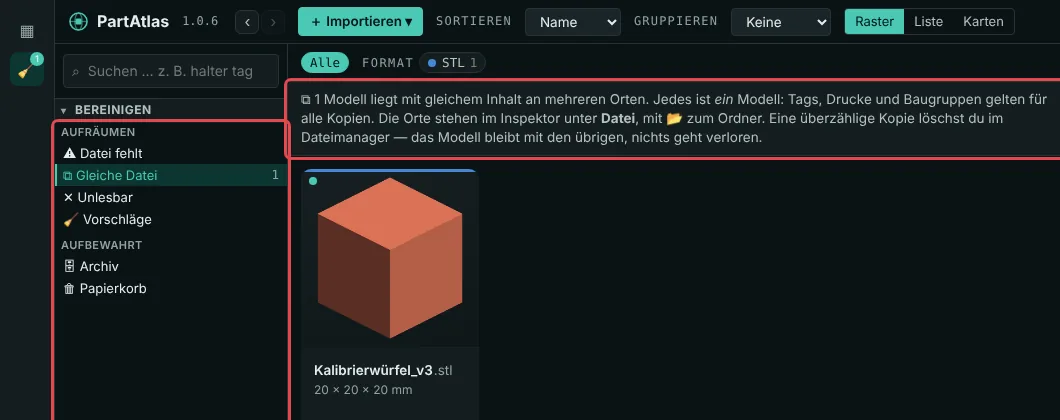
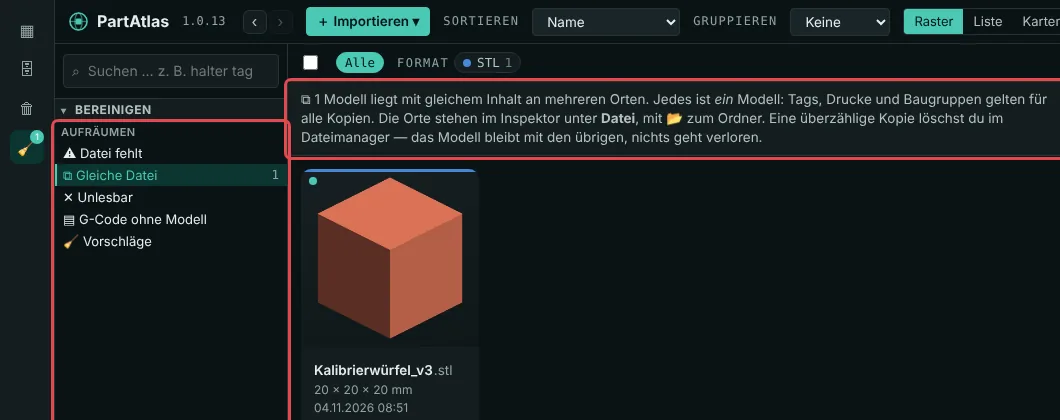
Handbuch: Archiv und Papierkorb in der Leiste, Ziehen und Ablegen, G-Code ohne Modell; Bild Bereinigen neu
Claude-Session: https://claude.ai/code/session_01LRBnMHrETZXiKnDhzZxFAi

diff --git a/partatlas/web/handbuch/index.html b/partatlas/web/handbuch/index.html
@@ -234,6 +234,11 @@ figure.bild figcaption { font-size: 13px; color: var(--muted); margin-top: 6px; 
   <p>Sind mehrere gewählt, gilt die Leiste unten für alle: <b>Tag, Material, Sammlung, Baugruppe</b> öffnen ein Fenster mit Suchfeld und dem
   Stand („2 von 5“); ein Klick fügt allen hinzu, das Fenster bleibt offen. <b>Favorit, Entwurf, Gedruckt</b> schalten direkt; <b>Verschieben,
   Archiv, Löschen</b> fragen nach. Ein Rechtsklick auf eine Kachel bietet dasselbe für die Auswahl.</p>
+  <h3>Ziehen und Ablegen</h3>
+  <p>Gewählte Modelle lassen sich dorthin ziehen, wo sie hingehören: auf einen Ordner, eine Sammlung oder Baugruppe, auf 🗑 (Papierkorb),
+  🗄 (Archiv), auf einen Tag in der Seitenleiste, auf ♥ Favoriten oder auf ＋ bei den Sammlungen (neue Sammlung). Aus Papierkorb oder Archiv
+  zurück geht es auf ▦ Bibliothek. Am Zeiger steht, was beim Loslassen geschieht. Danach macht <b>Rückgängig</b> in der Meldung oder
+  <kbd>Strg</kbd>+<kbd>Z</kbd> alles wieder zurück. Ab 25 Modellen fragt der Papierkorb einmal nach.</p>
 </section>
 
 <section id="suche">
@@ -419,17 +424,24 @@ figure.bild figcaption { font-size: 13px; color: var(--muted); margin-top: 6px; 
 
 <section id="bereinigen">
   <h2>Bereinigen und Löschen</h2>
-  <p>Der Besen in der Leiste ganz links zeigt, wo aufzuräumen ist; das Abzeichen zählt fehlende, mehrfach liegende und unlesbare Dateien.
-  Die Seitenleiste ist zweigeteilt: <b>Aufräumen</b> und <b>Aufbewahrt</b>. Jede Ansicht sagt oben, was sie zeigt und was ihre Aktionen tun.</p>
+  <p>Der Besen 🧹 in der Leiste ganz links zeigt, wo aufzuräumen ist; das Abzeichen zählt fehlende, mehrfach liegende und unlesbare Dateien.
+  Ein Klick öffnet die erste Liste, in der etwas zu tun ist. Jede Ansicht sagt oben, was sie zeigt und was ihre Aktionen tun.
+  <a href="#archiv-papierkorb">Archiv und Papierkorb</a> haben eigene Knöpfe in der Leiste.</p>
   <figure class="bild"><img class="hell" src="bilder/bereinigen-hell.webp" alt="Bereinigen › Gleiche Datei: oben die Erklärung, was man sieht und was man tun kann." width="1060" height="420" loading="lazy"><img class="dunkel" src="bilder/bereinigen-dunkel.webp" alt="Bereinigen › Gleiche Datei: oben die Erklärung, was man sieht und was man tun kann." width="1060" height="420" loading="lazy"><figcaption>Bereinigen › Gleiche Datei: oben die Erklärung, was man sieht und was man tun kann.</figcaption></figure>
   <table>
     <tr><th>Ansicht</th><th>Inhalt</th></tr>
     <tr><td>Datei fehlt</td><td>Im Katalog vorhanden, auf der Platte nicht mehr. <b>Entscheiden …</b> öffnet das Fenster vom Ende des Einlesens: <b>Ins Archiv</b> (taucht die Datei wieder auf, kehrt das Modell von selbst zurück), <b>Behalten</b> (bleibt ohne Datei im Katalog) oder <b>Löschen</b> (Papierkorb).</td></tr>
     <tr><td>Gleiche Datei</td><td>Dieselbe Datei mit gleichem Inhalt an mehreren Orten. Es ist ein Modell; im Inspektor unter <b>Datei</b> stehen alle Orte, ein Klick zeigt den Ordner. Eine überzählige Kopie löschst du im Dateimanager — das Modell bleibt mit den übrigen.</td></tr>
     <tr><td>Unlesbar</td><td>Dateien, die partAtlas nicht lesen konnte; den Grund nennt der Inspektor. Im Programm öffnen und am selben Ort neu speichern — beim nächsten Einlesen liest partAtlas sie neu.</td></tr>
+    <tr><td>G-Code ohne Modell</td><td>G-Codes aus deinen Ordnern, die partAtlas beim Einlesen keinem Modell sicher zuordnen konnte — etwa weil zwei Modelle gleich heissen oder das Modell fehlt. Je G-Code steht der Grund; mit einem Klick ordnest du ihn zu oder blendest ihn aus.</td></tr>
     <tr><td>Vorschläge</td><td>Was Platz kostet und vermutlich weg kann, in Gruppen mit Summe: Entwürfe, Kopien gleichen Inhalts, grosse Dateien ohne Verwendung, lange nicht angefasste — je Zeile mit Grund, Grösse, Pfad (📂) und was daran hängt. partAtlas löscht hier nichts; du löschst im Dateimanager oder speicherst die Pfade als CSV. „Behalten“ heisst: nicht mehr vorschlagen.</td></tr>
-    <tr><td>Archiv</td><td>Modelle, die ruhen: nicht in Liste, Suche, Zählern und Sammlungen, aber mit allem, was daran hängt. Hinein über Rechtsklick › Ins Archiv, die Leiste oder das Fenster bei fehlenden Dateien; zurück über Rechtsklick oder „Zurückholen“ im Inspektor.</td></tr>
-    <tr><td>Papierkorb</td><td>Aus dem Katalog entfernte Modelle, Ordner, Sammlungen, Baugruppen, Drucke, Tags und Kaufteile — einzeln oder alle wiederherstellbar. Er wird nie von selbst und nie als Ganzes geleert. Ein einzelnes Modell lässt sich mit <b>Endgültig entfernen …</b> für immer herausnehmen, nach Eintippen von „entfernen“ und mit einer Sicherung vorher.</td></tr>
+  </table>
+  <h3 id="archiv-papierkorb">Archiv und Papierkorb</h3>
+  <p>Beide stehen links in der Leiste, gleich unter ▦ Bibliothek: 🗄 <b>Archiv</b> und 🗑 <b>Papierkorb</b>. Am Papierkorb steht, wie viele Modelle darin liegen.</p>
+  <table>
+    <tr><th>Ort</th><th>Inhalt</th></tr>
+    <tr><td>Archiv</td><td>Modelle, die ruhen: nicht in Liste, Suche, Zählern und Sammlungen, aber mit allem, was daran hängt. Hinein über Rechtsklick › Ins Archiv, die Leiste, das Fenster bei fehlenden Dateien oder durch Ziehen auf 🗄; zurück über Rechtsklick, „Zurückholen“ im Inspektor oder durch Ziehen auf ▦ Bibliothek.</td></tr>
+    <tr><td>Papierkorb</td><td>Aus dem Katalog entfernte Modelle, Ordner, Sammlungen, Baugruppen, Drucke, Tags und Kaufteile — einzeln oder alle wiederherstellbar, auch durch Ziehen auf ▦ Bibliothek. Er wird nie von selbst und nie als Ganzes geleert. Ein einzelnes Modell lässt sich mit <b>Endgültig entfernen …</b> für immer herausnehmen, nach Eintippen von „entfernen“ und mit einer Sicherung vorher.</td></tr>
   </table>
   <h3>Löschen mit Auskunft</h3>
   <p>Vor dem Löschen zeigt partAtlas, was am Modell hängt: Dateien, eigene Bilder, Baugruppen, Sammlungen, Tags — jeweils mit der

diff --git a/partatlas/neuigkeiten.py b/partatlas/neuigkeiten.py
@@ -10,7 +10,9 @@ Zeilen in der Sprache des Anwenders, was er sieht oder tun kann, nicht was im Co
 NEUES = [
     ("1.0.13", ["Behoben: Ein geslictes 3MF (mit G-Code darin) wurde zum Öffnen auch dem CAD-Programm und dem Standardprogramm des Rechners angeboten — "
                 "beide können damit nichts anfangen. Jetzt steht dafür nur noch der Slicer zur Wahl; „Mit dem System öffnen“ bleibt nur, solange kein "
-                "Slicer eingerichtet ist."]),
+                "Slicer eingerichtet ist.",
+                "Handbuch (? links unten oder F1): Papierkorb und Archiv mit ihren Knöpfen in der Leiste, Ziehen und Ablegen und die Liste "
+                "„G-Code ohne Modell“ sind beschrieben."]),
     ("1.0.12", ["Papierkorb und Archiv haben eigene Knöpfe in der Leiste links, gleich unter ▦ Bibliothek: 🗄 Archiv und 🗑 Papierkorb — ein Klick öffnet sie. "
                 "Am Papierkorb steht, wie viele Modelle darin liegen. Unter 🧹 Bereinigen bleibt nur noch das Aufräumen; der Besen öffnet gleich die erste Liste, "
                 "in der etwas zu tun ist.",

diff --git a/docs/entwicklung/OFFEN.md b/docs/entwicklung/OFFEN.md
@@ -10,6 +10,8 @@ Tester: bei einem 3MF mit G-Code bot „Öffnen mit“ FreeCAD an, „Mit dem Sy
 Format (3mf), nicht ob die Datei geslict ist (`m.gcode === "3mf"`, aus den Platten). Jetzt `geslict(m)`: kein CAD (Knopf, Menü, Kontextmenü), kein gedämpfter
 CAD-Hinweis, und „Mit dem System öffnen“ nur, wenn kein Slicer da ist (sonst bliebe keine Datei ohne Weg nach draussen). test_programme_ui 10/10 (+7),
 Gegenprobe (geslict → false) fällt. Server unverändert: wer ein CAD selbst wählt, darf weiter alles öffnen.
+**Handbuch** (Anwender: ja): Abschnitt Bereinigen nachgezogen — Besen öffnet die erste Liste mit Arbeit, Zeile „G-Code ohne Modell“, neuer Teil „Archiv und
+Papierkorb“ (Knöpfe in der Leiste, Ziehen), in „Auswählen“ ein Absatz „Ziehen und Ablegen“; Bild `bereinigen` neu (nur dieses Motiv). Schreibweise im Handbuch weiter „partAtlas“.
 
 ## Nächstes Thema (Anwender 4.11.): G-Code beim Drucken automatisch — Recherche, nichts gebaut
 
